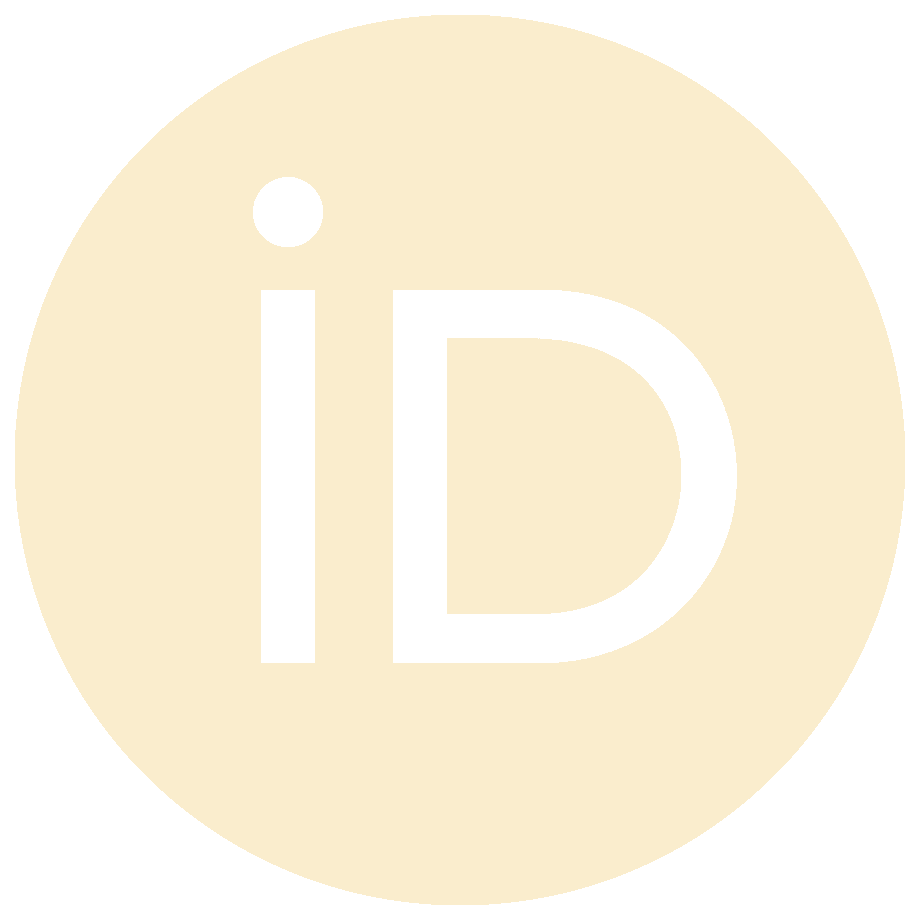
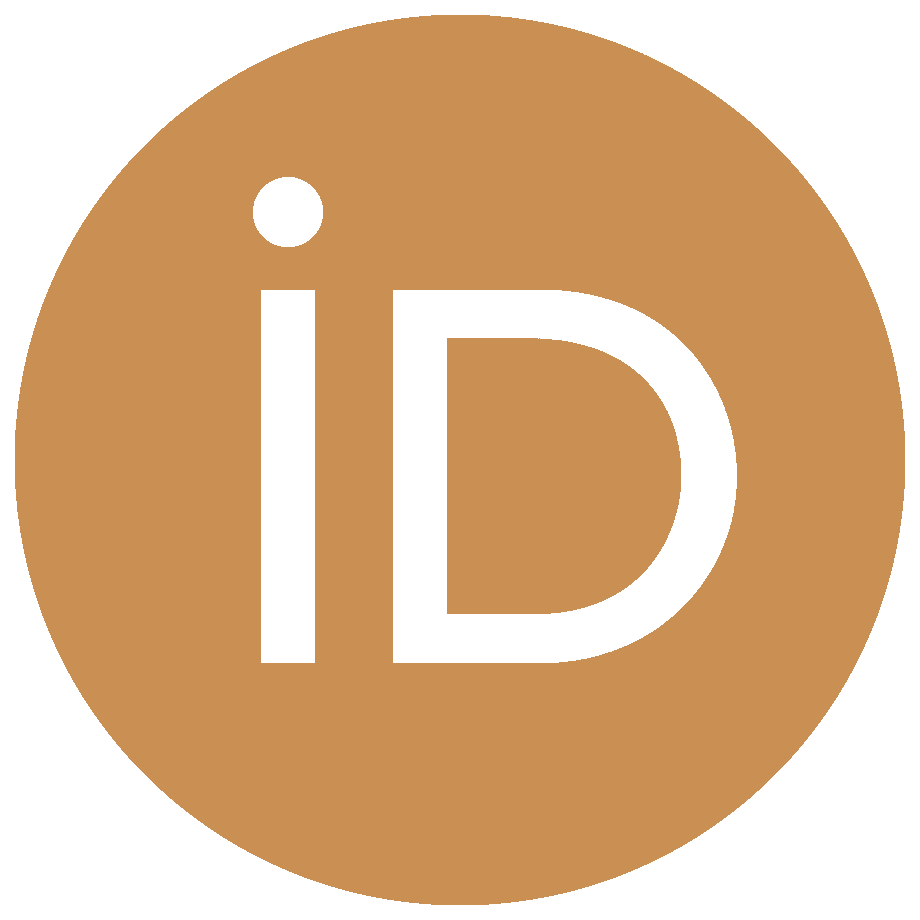
updated colours

diff --git a/styles/index_dark.css b/styles/index_dark.css
@@ -1,10 +1,19 @@
-/* Palette:
+/* Palette dark:
     #472D30
     #723D46
     #E26D5C
     #FFE1A8
     #C9CBA3
     https://coolors.co/palette/c9cba3-ffe1a8-e26d5c-723d46-472d30
+*/
+
+/* Palette light:
+    #B3C186
+    #E9EDC9
+    #FFFEF9
+    #FAEDCD
+    #CA8F53
+    https://coolors.co/B3C186-e9edc9-fffef9-faedcd-CA8F53
 */
 
 /* All HTML */
@@ -44,12 +53,27 @@ body::-webkit-scrollbar{
     height: 50vh;
 }
 
-/* Button to change theme */
-#theme {
+/* Button to change theme container */
+.theme_container {
     position: absolute;
-    display: flex;
-    left: 0;
     margin: 10px;
+}
+
+/* Overlap theme buttons */
+.theme_button {
+    position: absolute;
+    left: 0;
+}
+
+/* Main button to change theme */
+.theme_main {
+    z-index: 3;
+    transition: 0.6s;
+}
+
+/* Main button to change theme disappear on hover */
+.theme_main:hover {
+    opacity: 0;
 }
 
 /* Change theme image size */

diff --git a/styles/index_light.css b/styles/index_light.css
@@ -44,12 +44,27 @@ body::-webkit-scrollbar{
     height: 50vh;
 }
 
-/* Button to change theme */
-#theme {
+/* Button to change theme container */
+.theme_container {
     position: absolute;
-    display: flex;
-    left: 0;
     margin: 10px;
+}
+
+/* Overlap theme buttons */
+.theme_button {
+    position: absolute;
+    left: 0;
+}
+
+/* Main button to change theme */
+.theme_main {
+    z-index: 3;
+    transition: 0.6s;
+}
+
+/* Main button to change theme disappear on hover */
+.theme_main:hover {
+    opacity: 0;
 }
 
 /* Change theme image size */

diff --git a/index2.html b/index2.html
@@ -13,7 +13,11 @@
     <body>
         <!-- Change theme -->
         <section id = "theme">
-            <img class = "themed" src = "images2/dark/orcid.png" alt = "button to change theme">
+            <div class = "theme_container">
+                <img class = "themed theme_button theme_main" src = "images2/dark/theme.png" alt = "button to change theme">
+
+                <img class = "themed theme_button" src = "images2/dark/theme_selected.png" alt = "button to change theme">
+            </div>
         </section>
 
         <!-- Social links -->
